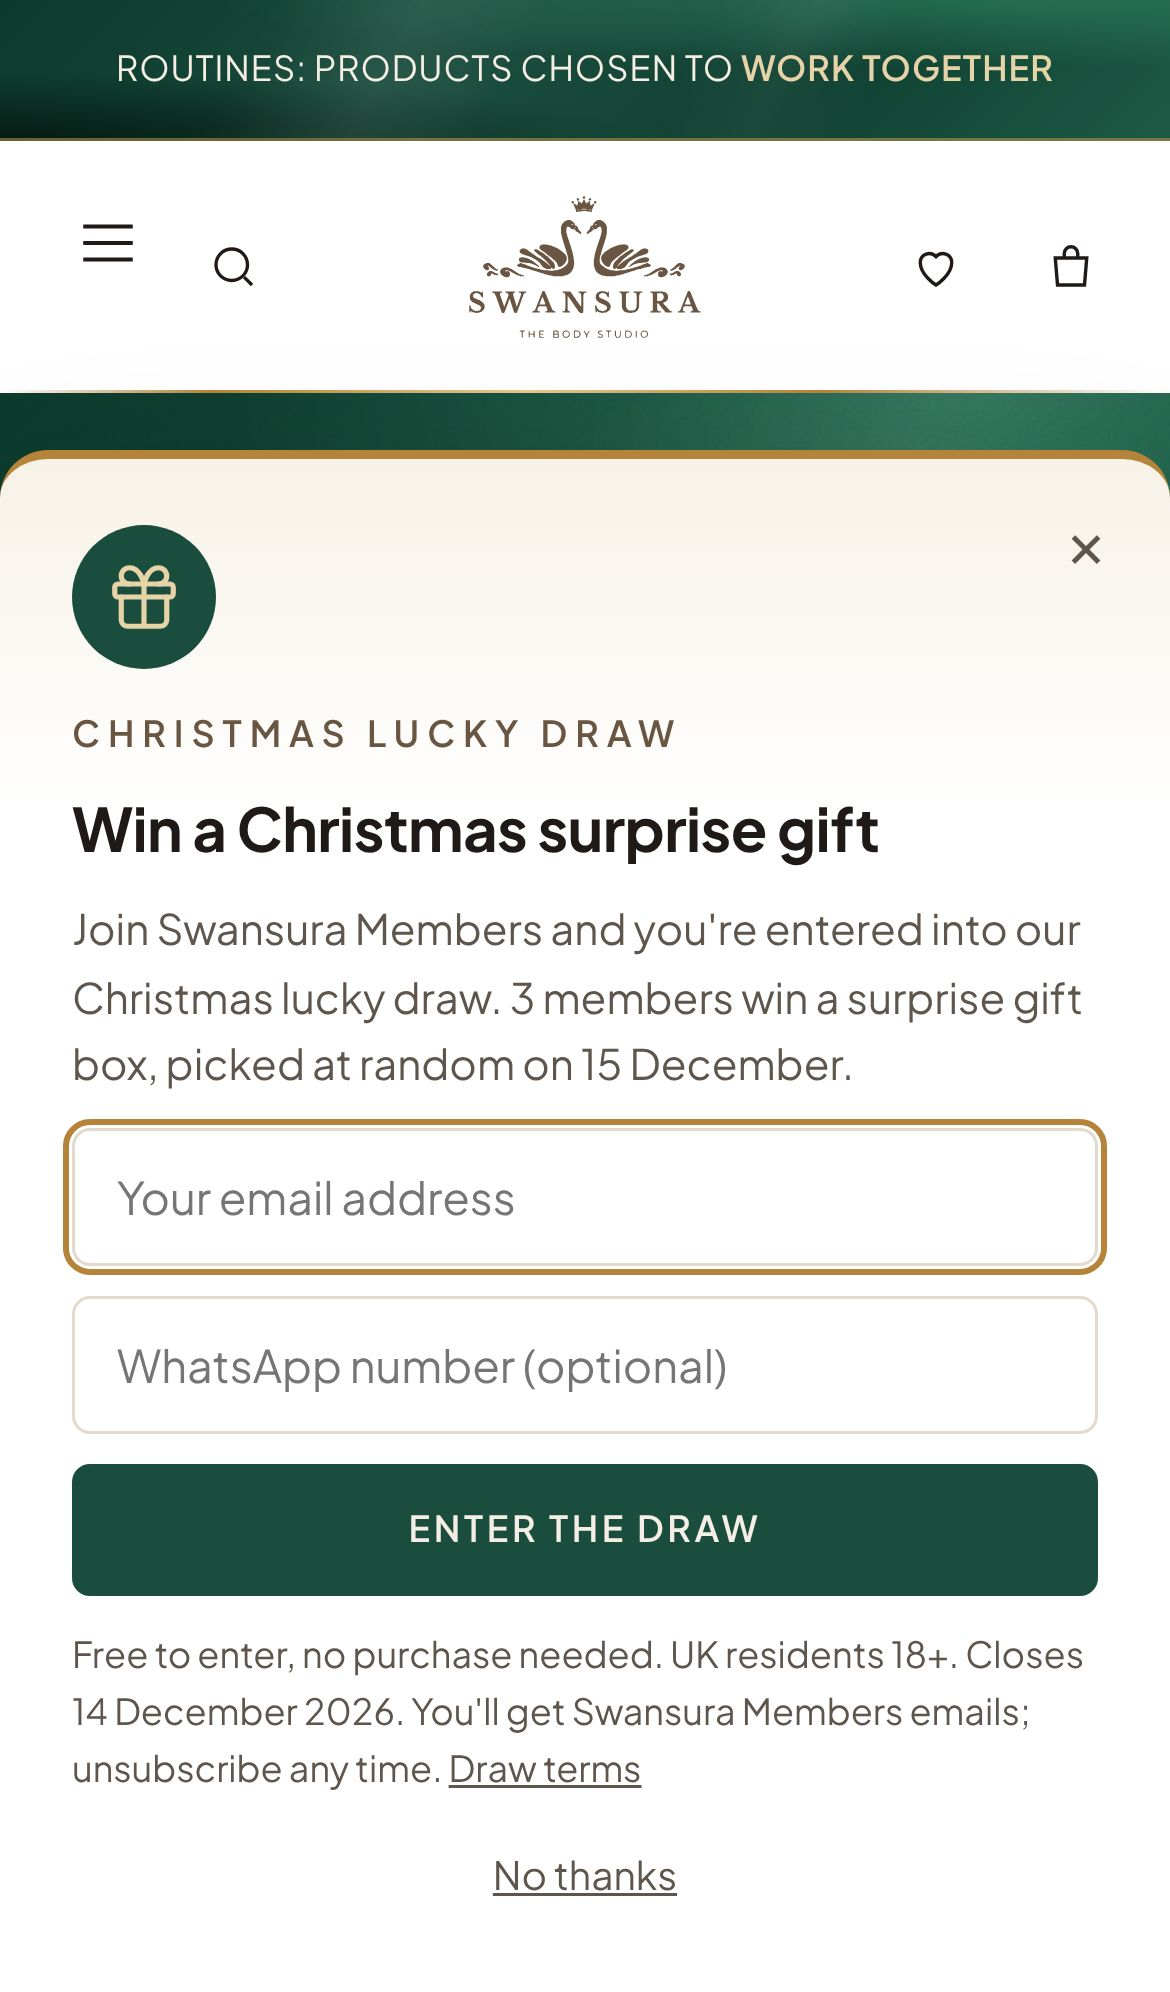
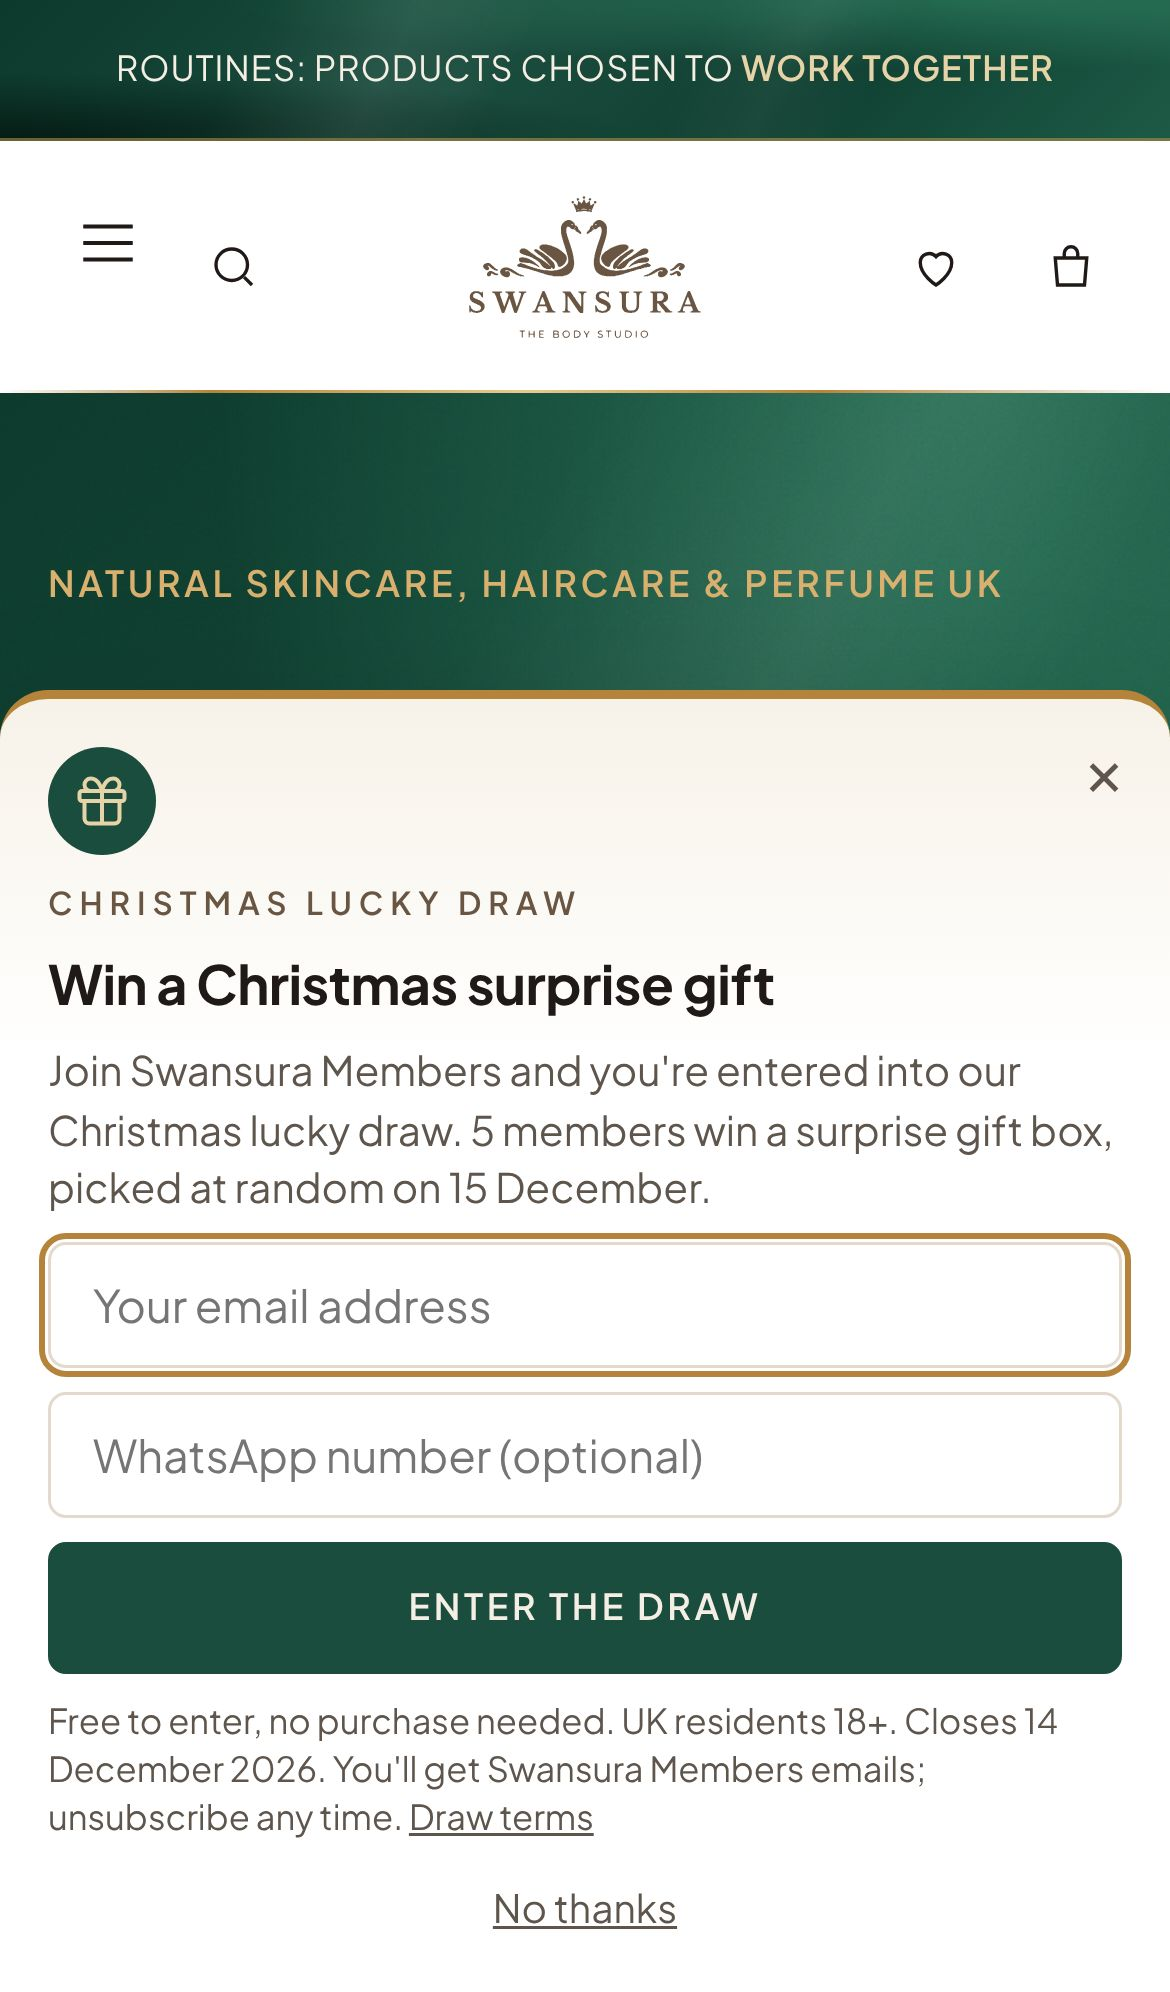
Christmas draw: 5 winners, more compact phone pop-up
Claude-Session: https://claude.ai/code/session_01S2g112JF6CCLo8Tg7CRZKC

Changed region(s): [[0.0, 0.2179, 1.0, 0.9649]]

diff --git a/theme/assets/sw-proto.css b/theme/assets/sw-proto.css
@@ -2583,6 +2583,6 @@ html.as-open .swp .chatbtn{display:none}
 .swp .drawpop .bis-note a{color:inherit;text-decoration:underline}
 .swp .drawpop .dp-no{background:none;border:0;padding:6px;min-height:32px;font:inherit;font-size:13px;color:var(--ink-2);text-decoration:underline;cursor:pointer;align-self:center}
 .swp .drawpop a.btn{text-align:center}
-@media (max-width:600px){.swp .drawpop{max-height:88dvh;overflow:auto;gap:10px;padding-top:22px}.swp .drawpop h3{font-size:20px}}
+@media (max-width:600px){.swp .drawpop{max-height:80dvh;overflow:auto;gap:8px;padding:16px 16px calc(14px + env(safe-area-inset-bottom,0px))}.swp .drawpop .dp-gift{width:36px;height:36px;margin:0}.swp .drawpop .dp-gift svg{width:20px;height:20px}.swp .drawpop .eyebrow{font-size:10.5px}.swp .drawpop h3{font-size:18px}.swp .drawpop .bis-p{font-size:13.5px;line-height:1.45}.swp .drawpop input{height:42px;font-size:15px}.swp .drawpop .btn{min-height:44px}.swp .drawpop .bis-note{font-size:11.5px;line-height:1.4}.swp .drawpop .dp-no{min-height:28px;padding:2px}.swp .drawpop .bis-x{top:6px;right:6px}}
 .swp .news .news-small{margin:12px 0 0;font-size:12.5px;opacity:.85}
 .swp .news .news-small a{color:inherit;text-decoration:underline}

diff --git a/tools/theme/build_proto_css.py b/tools/theme/build_proto_css.py
@@ -386,7 +386,7 @@ html.as-open .swp .chatbtn{display:none}
 .swp .drawpop a.btn{text-align:center}
 .swp .news .news-small{margin:12px 0 0;font-size:12.5px;opacity:.85}
 .swp .news .news-small a{color:inherit;text-decoration:underline}
-@media (max-width:600px){.swp .drawpop{max-height:88dvh;overflow:auto;gap:10px;padding-top:22px}.swp .drawpop h3{font-size:20px}}
+@media (max-width:600px){.swp .drawpop{max-height:80dvh;overflow:auto;gap:8px;padding:16px 16px calc(14px + env(safe-area-inset-bottom,0px))}.swp .drawpop .dp-gift{width:36px;height:36px;margin:0}.swp .drawpop .dp-gift svg{width:20px;height:20px}.swp .drawpop .eyebrow{font-size:10.5px}.swp .drawpop h3{font-size:18px}.swp .drawpop .bis-p{font-size:13.5px;line-height:1.45}.swp .drawpop input{height:42px;font-size:15px}.swp .drawpop .btn{min-height:44px}.swp .drawpop .bis-note{font-size:11.5px;line-height:1.4}.swp .drawpop .dp-no{min-height:28px;padding:2px}.swp .drawpop .bis-x{top:6px;right:6px}}
 """
 
 

diff --git a/CLAUDE.md b/CLAUDE.md
@@ -9,7 +9,7 @@ Read this first in every session. Full history: `docs/HANDOFF.md` (handoff from 
 - EVERY product photo uploaded from now on: convert to WebP, cut out the background (`tools/shopify/cutout_photos.py`, birefnet-general-lite; isnet / `cutout_flood.py` when it fails; check every result by eye), place it on the common emerald tint #EEF3F0 (the theme paints the background for files ending `-cutout.webp`), name it `<handle>-NN-cutout.webp`, and give it alt text '<product title> – <what the photo shows>' (no claims, no scene words the cut-out lost). Graphics/infographics/model shots are NOT cut out: extend them to 4:5 with their own edge colours (`tools/shopify/graphic_fill.py <in> <out>`; scenes whose edge is mostly picture get a blurred copy of the photo behind them), name them `<handle>-NN-fill.<original ext>`, keep their alt (user, 11 Nov 2026: a graphic must not sit as a separate box in the mount). The theme shows `-fill` files edge to edge. Never upload a plain photo without the cut-out or fill.
 
 ## Project
-- **Christmas lucky draw pop-up (user, 13 Nov 2026: client: no % off, 'surprise gift for Christmas based on lucky draw'; user: fill the terms with defaults):** theme draft **"Swansura – Christmas draw pop-up (draft)" (200677360003, duplicated from live 200669266307; preview https://www.swansura.com/?preview_theme_id=200677360003; user publishes)**. Pop-up (`sw-proto.js` module at the end, `.drawpop` CSS in sw-proto.css + build_proto_css.py EXTRA; config `cfg.draw` from new sw-header settings draw_on/until/title/text/small/terms/tag/delay): desktop = mouse leaves through the top (after 4 s on the page); phones = after 60 s on the site (sessionStorage swDrawT) or a fast scroll-up after 20 s; bag not empty → 'You left N items in your bag' reminder (checkout / view bag, distance to the next offer) instead; once per visit, 14 days after 'No thanks'/×, never again after entering (localStorage swDraw); skipped on cart/checkout/account/terms pages, while another layer/chat/cookie banner is open, and after draw_until. Form: email required, WhatsApp optional (+ separate 'send me offers on WhatsApp' tick box shown only when a number is typed) → Shopify customer form, tags newsletter, member, xmas-draw-2026 (+ wa-<digits>, whatsapp-optin); the documented customer form stores only email, so the number lives in the tags. Members band (`sw-p-news`): draw wording + 'Enter the draw' + small print + Draw terms link until draw_until (Liquid date compare), then back to the normal members wording by itself; entries tagged xmas-draw-2026. Terms page /pages/christmas-draw-terms (Page/713020834179, published; promoter SWANSURA LTD, UK 18+, free entry, existing members included, closes 23:59 14 Dec 2026, 3 winners of a surprise gift box drawn at random by computer 15 Dec, emailed by 16 Dec, 7 days to reply, winners' surname + county on request, data/WhatsApp consent, English law) — CAP Code rule 8 needs these; defaults chosen by us, client can change prize/winners/dates in the theme settings + page. Preview tested (form POST intercepted, no customer created): desktop exit pop-up, phone 60 s bottom sheet, WhatsApp consent box appears with a number, posted tags correct, 'You're in the draw' + swDraw {in:1}, 'No thanks' stores seen, bag reminder with an item in the bag, band text + terms link, 0 JS errors, no sideways scroll. Screenshots `docs/images/draw_{popup_desktop,popup_phone,bagnudge_phone,band_desktop}_2026-11-13.jpg`. Record `docs/seo/christmas_draw_2026-11-13.json`. Entries: Customers filtered by tag xmas-draw-2026 (pick 3 at random on 15 Dec).
+- **Christmas lucky draw pop-up (user, 13 Nov 2026: client: no % off, 'surprise gift for Christmas based on lucky draw'; user: fill the terms with defaults):** theme draft **"Swansura – Christmas draw pop-up (draft)" (200677360003, duplicated from live 200669266307; preview https://www.swansura.com/?preview_theme_id=200677360003; user publishes)**. Pop-up (`sw-proto.js` module at the end, `.drawpop` CSS in sw-proto.css + build_proto_css.py EXTRA; config `cfg.draw` from new sw-header settings draw_on/until/title/text/small/terms/tag/delay): desktop = mouse leaves through the top (after 4 s on the page); phones = after 60 s on the site (sessionStorage swDrawT) or a fast scroll-up after 20 s; bag not empty → 'You left N items in your bag' reminder (checkout / view bag, distance to the next offer) instead; once per visit, 14 days after 'No thanks'/×, never again after entering (localStorage swDraw); skipped on cart/checkout/account/terms pages, while another layer/chat/cookie banner is open, and after draw_until. Form: email required, WhatsApp optional (+ separate 'send me offers on WhatsApp' tick box shown only when a number is typed) → Shopify customer form, tags newsletter, member, xmas-draw-2026 (+ wa-<digits>, whatsapp-optin); the documented customer form stores only email, so the number lives in the tags. Members band (`sw-p-news`): draw wording + 'Enter the draw' + small print + Draw terms link until draw_until (Liquid date compare), then back to the normal members wording by itself; entries tagged xmas-draw-2026. Terms page /pages/christmas-draw-terms (Page/713020834179, published; promoter SWANSURA LTD, UK 18+, free entry, existing members included, closes 23:59 14 Dec 2026, 5 winners (user, 13 Nov 2026: 3 → 5) of a surprise gift box drawn at random by computer 15 Dec, emailed by 16 Dec, 7 days to reply, winners' surname + county on request, data/WhatsApp consent, English law) — CAP Code rule 8 needs these; defaults chosen by us, client can change prize/winners/dates in the theme settings + page. Preview tested (form POST intercepted, no customer created): desktop exit pop-up, phone 60 s bottom sheet, WhatsApp consent box appears with a number, posted tags correct, 'You're in the draw' + swDraw {in:1}, 'No thanks' stores seen, bag reminder with an item in the bag, band text + terms link, 0 JS errors, no sideways scroll. Screenshots `docs/images/draw_{popup_desktop,popup_phone,bagnudge_phone,band_desktop}_2026-11-13.jpg`. Record `docs/seo/christmas_draw_2026-11-13.json`. Entries: Customers filtered by tag xmas-draw-2026 (pick 5 at random on 15 Dec). Phone sheet made more compact (user, 13 Nov 2026): 36 px icon, 18 px heading, 42 px fields, tighter padding; 514 → 434 px tall on iPhone 13 (454 on iPhone SE), no inner scroll.
 - **£5 off over £70 is now code SAVE5 (user, 12 Nov 2026: 'auto apply of xtra 5 pounds offer will be removed … applies with a manual apply code in the step of add to bag and Checkout'; chose code SAVE5 + show it on the site):** store: new code discount SAVE5 (DiscountCodeNode/2440222409091: £5 off the order, minimum subtotal £70, combines with shipping discounts only, no end date, no usage limit) and the automatic '£5 off orders over £70' (DiscountAutomaticNode/2430963712387) DEACTIVATED (expired 12 Nov 18:42 UTC). Record + undo `docs/backups/save5_discount_2026-11-12.json`. Theme, same draft **200669266307 'Swansura – Smaller badge (draft)'** (user publishes): new `bonus_code` setting (sw-header + sw-p-product, default SAVE5) → `cfg.offers.bonus.code`; bag drawer + /cart get a code box (`codeBox()` in sw-proto.js: input + Apply, chips with ×, 'Apply SAVE5 for £5 off' button once the subtotal reaches £70, messages; uses the Ajax cart `POST /cart/update.js {discount}` and `cart.discount_codes`; the code carries to checkout, checked: 'Order discount SAVE5 − £5.00'); bag/added-bar/PDP/ritual/FAQ/Offers/announcement/footer wording says 'with code SAVE5' (sw-proto.js md5 555136a4…, sw-proto.css 4acf9e4e… with `.bagcode` CSS also in build_proto_css.py EXTRA, sw-p-product ff2a40e1…, sw-header 489d6a80…, sw-auto-faq 4b75af27…, sw-p-cart 83450dd8…, header-group/footer-group/page.faq/page.offers JSON). Preview tested at 1366 + 390: £32.99 bag → SAVE5 'not applied' + explanation; £80.99 bag → quick button / typed code → Savings −£5.00, subtotal £75.99, remove works; no JS errors, no sideways scroll. Screenshots `docs/images/save5_{bag_phone,checkout}_2026-11-12.jpg`. Until the draft is published the LIVE theme still says '£5 off unlocked (applied at checkout)' while checkout no longer applies it without the code. STORE COPY DONE (user, 13 Nov 2026: 'Yes, go ahead'): 193 fields now say 'with code SAVE5' (179 collection FAQ answers, 5 collection seo_copy, black-friday SEO description, pages faq / shipping / offers bodies + offers SEO description, articles christmas-gift-guide / best-perfume-gift-sets-uk-2026 / stocking-fillers-for-her-under-25 bodies + christmas-gift-guide FAQ); generator `tools/shopify/save5_copy_2026-11-13.py <collections_all> <pages_articles> <out>` → `docs/seo/save5_copy_2026-11-13.json` (before/after = undo; copy `docs/backups/save5_copy_before_2026-11-13.json`). Verified: 0 errors, every FAQ metafield updated today, the 3 article bodies on the live Atom feed equal the file, 891 product descriptions + all page/article SEO descriptions have no code-less '£5 off'. Live pages still show the old wording only in theme text (header/footer/FAQ page answers/offers tiles), all fixed on draft 200669266307 (checked in preview: 0 code-less '£5 off'). Shipping policy file `docs/policies/shipping_policy_live_2026-10-26.html` updated ('… £5 off the order with code SAVE5'); the user pastes it into Settings → Policies (connector cannot write policies).
 - **Smaller card badge (user, 12 Nov 2026: the 'Official partner' tag looked too big in the 1:1 cards; 'make it smaller and move towards the top left corner … in mobile'):** the user published the Square photos draft (200659337603 is MAIN, found 12 Nov 2026). New draft **"Swansura – Smaller badge (draft)" (200669266307, duplicated from live 200659337603; preview https://www.swansura.com/?preview_theme_id=200669266307; user publishes)**: only `assets/sw-proto.css` changed (md5 656225b0…, also in build_proto_css.py EXTRA): `.swp .p-card .p-badge` 9 px text, letter-spacing .1em, 3×6 px padding, 8 px from the top-left corner (was 10–11 px text, 26 px tall); on ≤800 px 8 px text, 2×5 px padding, top-left 6 px (was bottom-left), max width 100% − 52 px so it stays clear of the wishlist heart. Preview: 'Official partner' 134×26 → 109×18 px on desktop, 124×26 → 91×15 px on phones, no sideways scroll. Then (user, 12 Nov 2026: phone badge text cut off; 'try like studio pick, that design was nice'): 'Official partner' now uses the Studio pick look (white card fill, brass-ink text, thin brass inset line) everywhere; on phones the full text always shows (no ellipsis, 8.5 px, 8 px ≤370, 7.5 px ≤340) and the card heart is 28 px at 6 px from the corner (was 36 px), so badge and heart never touch (gap 20 / 16 / 5 px at 390 / 360 / 320). Then (user, 12 Nov 2026: 'move it to the top left corner, not on the image … on the border line … don't change the size of the card'): the badge markup moved out of the photo link (`.p-media`, which clips) into `.mwrap` in `snippets/sw-p-card.liquid` (md5 90651dc3…), and `.mwrap>.p-badge` sits centred on the card's top border line (top −11 px / −9 px ≤720 px, translateY(−50%), left 12 / 8 px); card size unchanged, nothing covers the photo. sw-proto.css md5 2dc82182… on the draft. Checked: collections at 1366 / 390 / 360, homepage, Fragrance and a product page's card rows: badge fully visible, not clipped, no sideways scroll. Screenshots `docs/images/badge_small_{desktop,phone}_2026-11-12.jpg`. Any further theme change needs a new duplicate of the live theme.
 - **Whole site 1:1 (user, 12 Nov 2026: 'The complete website should be in the 1:1 dimension. There is no 4:5 dimension in the entire website … Every product display … 1:1'):** store: the last 204 4:5 `-fill` graphics (anatomē 135, Jo Milano 25, Highborn 22, Swansura 6, Chris Adams 4, Armaf/Guerlain/Korloff 3, NBW/Hemel/Signature 1) re-widened from their originals to 1200x1200 (`tools/shopify/square_fills.py <storefront dump> <plan>` → `docs/images/square_2026-11-12/<name>-sq.<ext>`) and replaced in place with fileUpdate (same media id/alt/position; plan + undo `docs/backups/square_fills_plan_2026-11-12.json`; originals still in `docs/backups/graphic_fill_originals_2026-11-11/`). Storefront check (892 products): 0 `-fill` files, all 1,018 non-cut-out images square; the 2,631 cut-outs are transparent 4:5 files shown `contain` on the #EEF3F0 tint inside square frames. Theme, same draft 200659337603 (preview https://www.swansura.com/?preview_theme_id=200659337603; user publishes), sw-proto.css md5 59f118f6… (also in build_proto_css.py EXTRA): `.swp .pic` 1:1 everywhere (PDP main, thumbs, Complete the ritual, FBT, bag, hero arch, advent doors, placeholders, routine steps, range bands), cut-outs `contain`; desktop PDP: `#mainImg` 1:1 + thumbnail column `height:0;min-height:100%` (it had stretched the main frame to 512x710). Preview checked at 1366 + 390 on home, anatomē + Deyga PDPs, anatome + gifts-under-50 collections: 0 non-square product images (only brand logos), no sideways scroll, 0 empty alts, no Liquid errors. Screenshots `docs/images/square_site_*_2026-11-12.jpg`.
